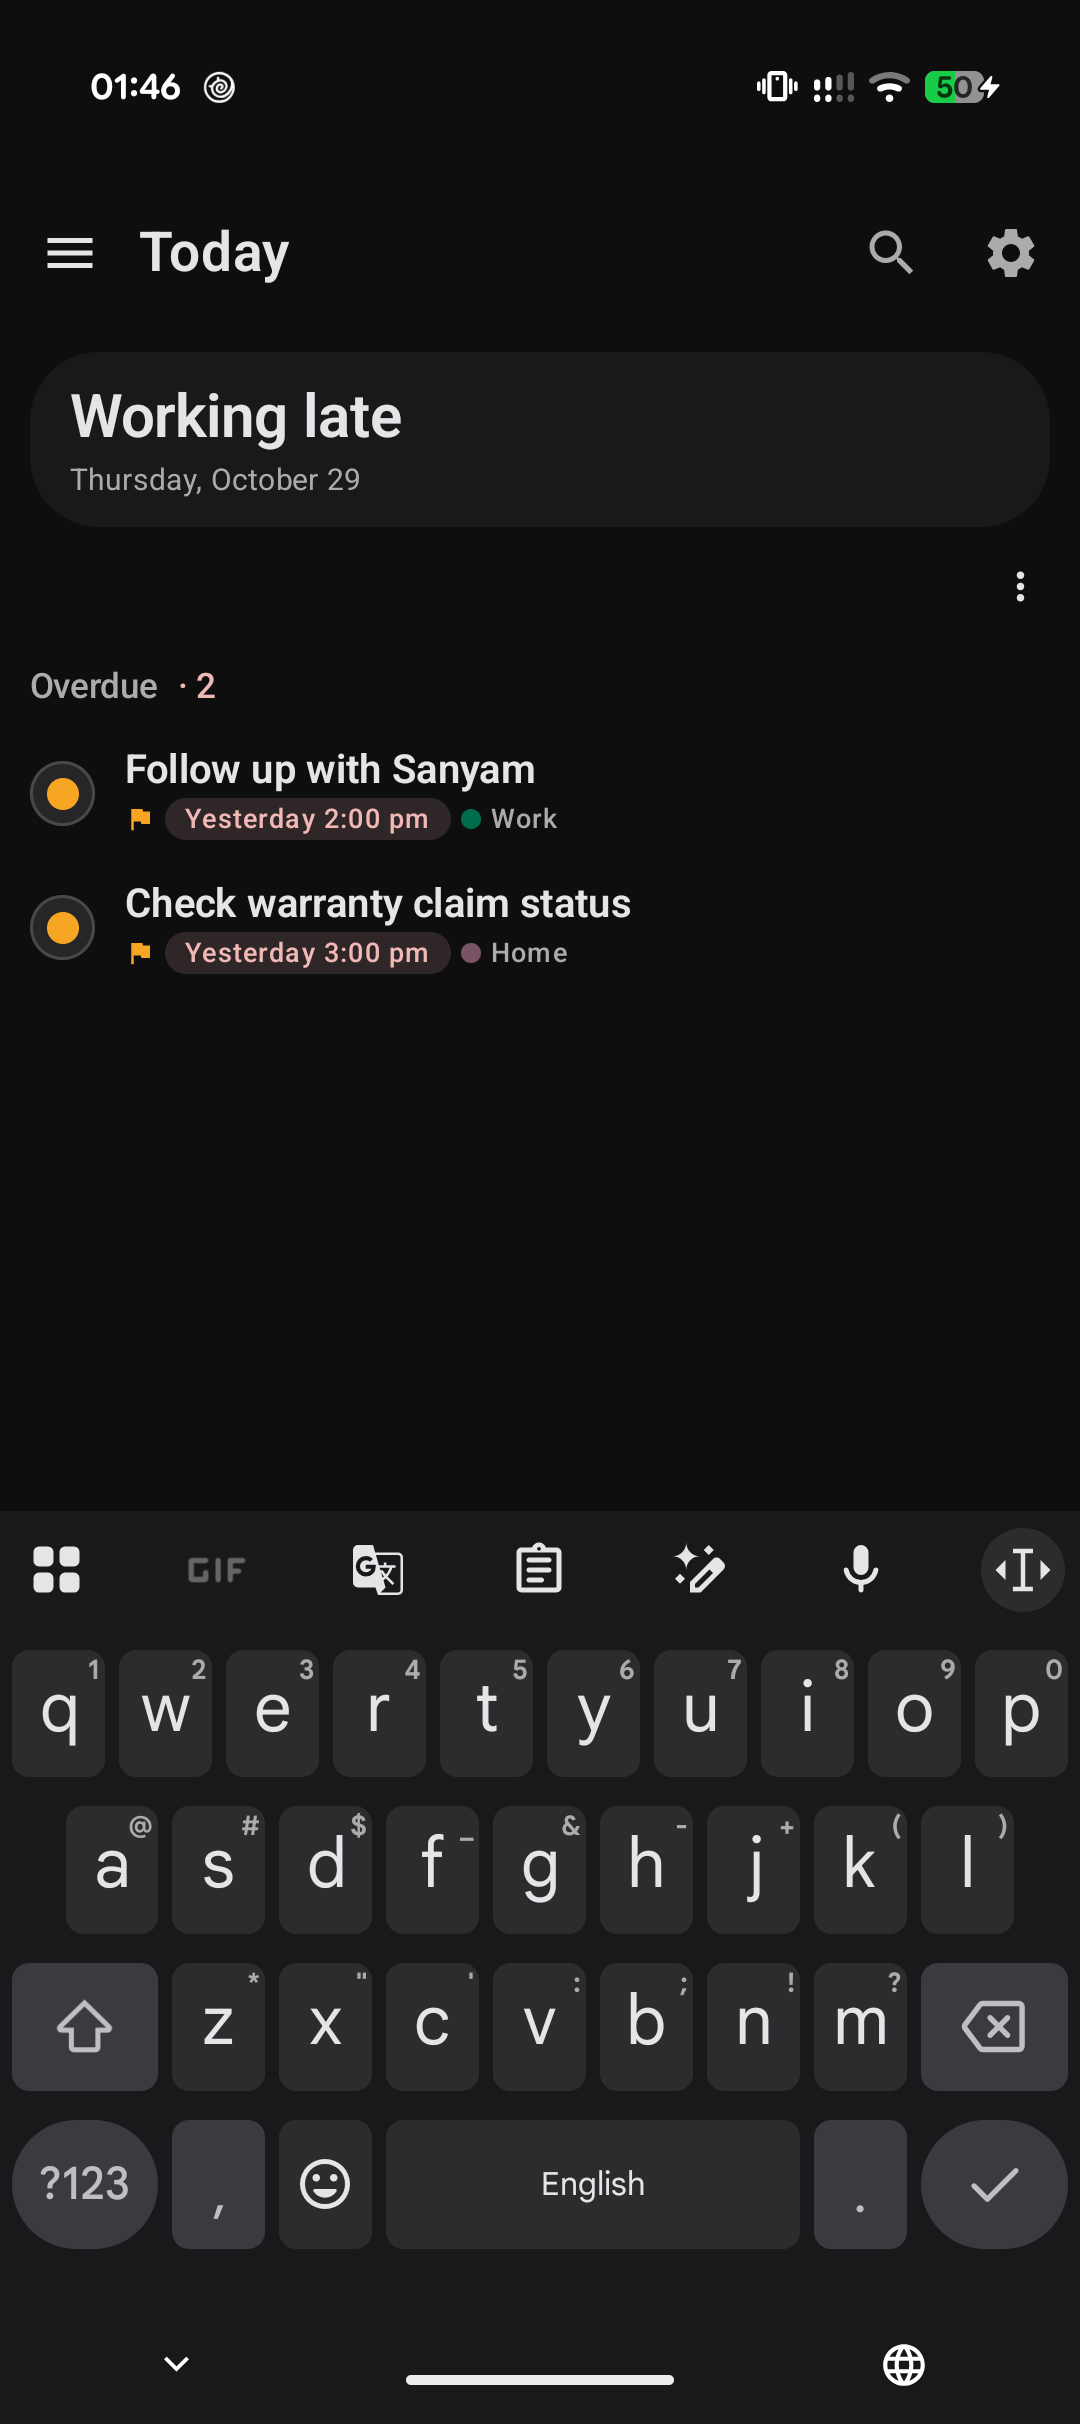
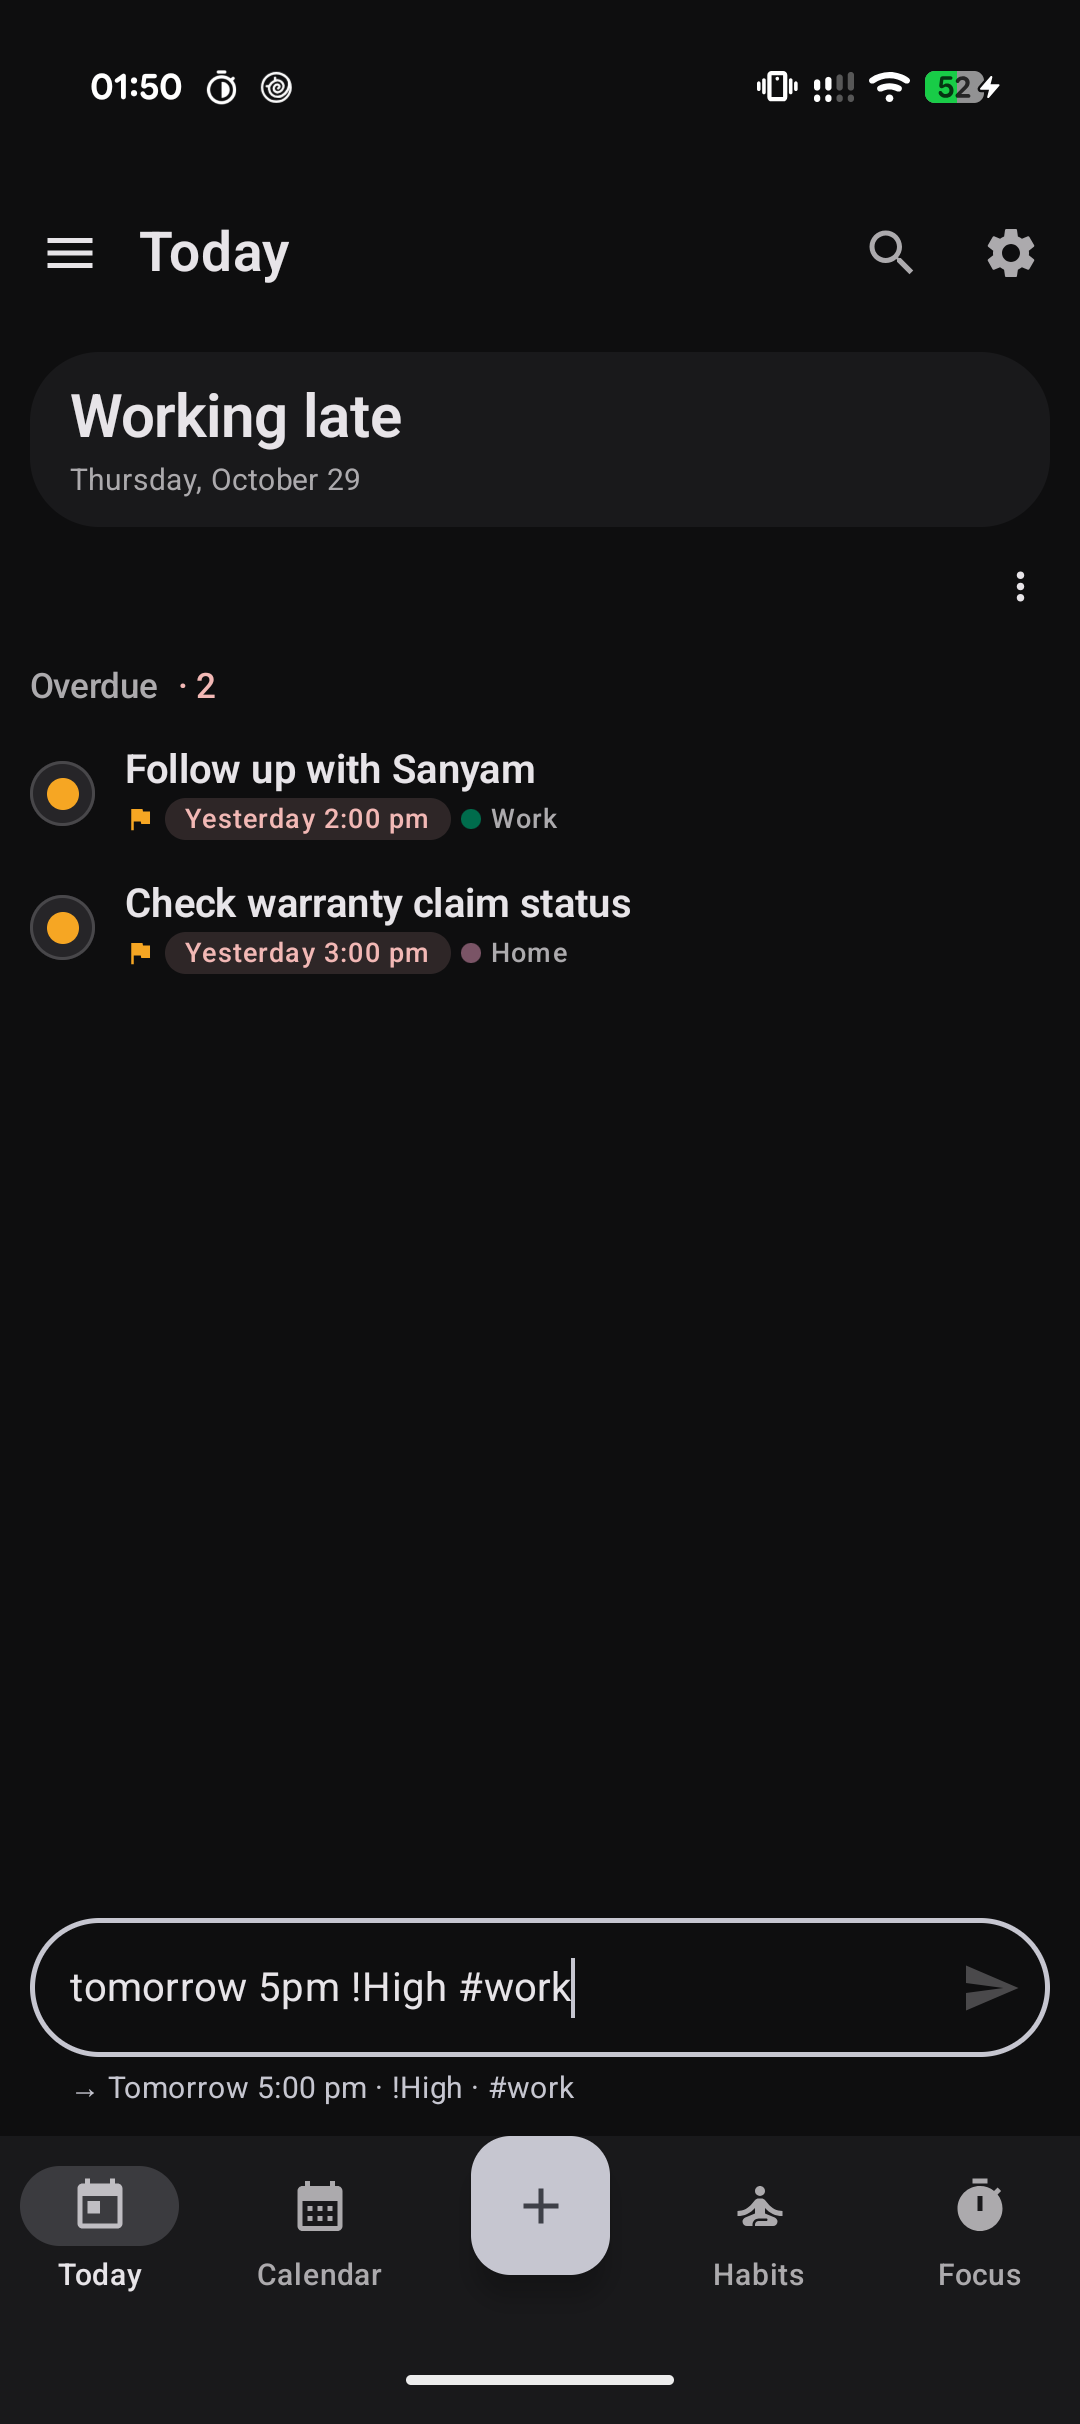
D: quick-add could never save all-metadata input (send disabled / repo null)
Found on-device in Phase D: 'tomorrow 5pm !High #work' parses every
token as metadata (date/time, priority, tag) leaving title='', so
(a) QuickAddBar's canSave gate (parsed.title non-blank) permanently
disabled the send button and swallowed IME Done, and (b) even if
invoked, TaskRepository.quickAdd returned null on a blank title —
the task was silently never created. Fix: repo falls back to the raw
text as the title (TickTick-style: all-metadata strings still create
a task), and canSave now requires only a live parse + non-blank raw
text. Parser behavior and its unit tests are unchanged.

diff --git a/app/src/main/java/com/orvane/app/data/repo/TaskRepository.kt b/app/src/main/java/com/orvane/app/data/repo/TaskRepository.kt
@@ -212,12 +212,16 @@ class TaskRepository @Inject constructor(
         if (clean.isEmpty()) return@withContext null
         val now = System.currentTimeMillis()
         val parsed = NaturalLanguageDateParser.parse(clean)
-        if (parsed.title.isBlank()) return@withContext null
+        // An all-metadata input ("tomorrow 5pm !High #work") consumes every
+        // token as date/priority/tag and would previously return null — the
+        // task was silently never created (Phase D). TickTick-style fallback:
+        // keep the raw text as the title when parsing leaves nothing behind.
+        val fallbackTitle = parsed.title.ifBlank { clean }
         val targetList = listId ?: settingsRepository.current().defaultListId
         val task = TaskEntity(
             id = newId(),
             parentId = isSubtaskOf,
-            title = parsed.title,
+            title = fallbackTitle,
             due = parsed.due?.toInstant()?.toEpochMilli(),
             isDueAllDay = parsed.isAllDay,
             priority = parsed.priority,

diff --git a/app/src/main/java/com/orvane/app/ui/tasks/QuickAddBar.kt b/app/src/main/java/com/orvane/app/ui/tasks/QuickAddBar.kt
@@ -35,7 +35,9 @@ internal fun QuickAddBar() {
     val vm: QuickAddViewModel = hiltViewModel()
     val text by vm.text.collectAsState()
     val parsed by vm.parsed.collectAsState()
-    val canSave = parsed?.title?.isBlank() == false
+    // Save is allowed for all-metadata inputs too ("tomorrow 5pm !High #work"):
+    // the repo falls back to the raw text as the title (Phase D fix).
+    val canSave = parsed != null && text.isNotBlank()
 
     Column(
         Modifier
